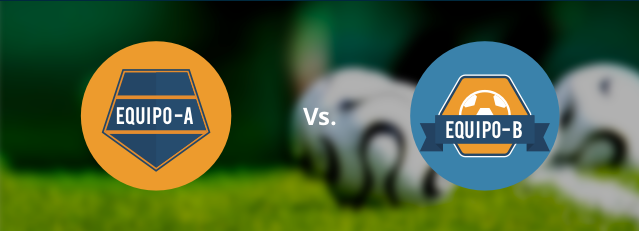
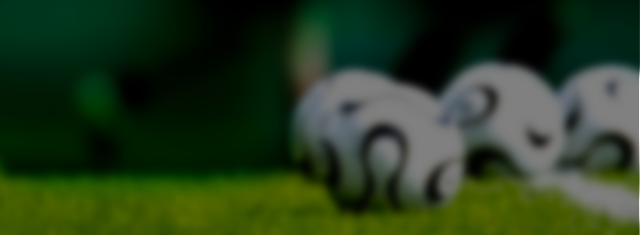
interfaz cambiada 23-01-2015

diff --git a/www/js/metodos.js b/www/js/metodos.js
@@ -1,9 +1,27 @@
-var mensajes = ["Anímate", "No lo pienses más", "Esta es la hora perfecta", "Qué estás esperando?"];
+// var mensajes = ["Anímate", "No lo pienses más", "Esta es la hora perfecta", "Qué estás esperando?"];
 
+//Esta función combierte un número en formato de dinero
+Number.prototype.formatMoney = function(places, symbol, thousand, decimal) {
+    places = !isNaN(places = Math.abs(places)) ? places : 2;
+    symbol = symbol !== undefined ? symbol : "$";
+    thousand = thousand || ",";
+    decimal = decimal || ".";
+    var number = this, 
+        negative = number < 0 ? "-" : "",
+        i = parseInt(number = Math.abs(+number || 0).toFixed(places), 10) + "",
+        j = (j = i.length) > 3 ? j % 3 : 0;
+    return symbol + negative + (j ? i.substr(0, j) + thousand : "") + i.substr(j).replace(/(\d{3})(?=\d)/g, "$1" + thousand) + (places ? decimal + Math.abs(number - i).toFixed(places).slice(2) : "");
+};
 function mostrarError(){
     // var html_error = '<h1>Error</h1><p class="centrar"><img src="images/error.png"/></p><p class="centrar">Problemas con el servidor, intenta mas tarde</p>';
     // Lungo.Notification.html(html_error, "Cerrar");
     Lungo.Notification.error("Error de conexión", "Por favor verifica que tengas acceso a internet", "remove", function(){return});
+}
+
+//Este método capitaliza un string
+function capitaliseFirstLetter(string)
+{
+    return string.charAt(0).toUpperCase() + string.slice(1);
 }
 
 // este método imprime el listado de las canchas en la primera vista
@@ -14,7 +32,8 @@ var imprimirCanchas = function (result){
         $$.each(result['data'], function(index, val) {
             $$('#canchas').append('<li class="thumb selectable arrow" data-fc-id="'+
                 val.id_cancha+'" data-fc-cupo="'+val.cupo_max+'" data-fc-tel="'+val.telefono+'" data-fc-logo="'+val.imagen_logo+'" data-fc-image="'+val.imagen_cancha+
-                '"> <img src="http://elecsis.com.co/fcracks/web/images/logos/'+val.imagen_logo+'"/><div><strong>'+val.nombre+
+                // '"> <img src="http://elecsis.com.co/fcracks/web/images/logos/'+val.imagen_logo+'"/><div><strong>'+val.nombre+
+                '"> <img src="http://fcracks.com/fcadm/web/images/logos/'+val.imagen_logo+'"/><div><strong>'+val.nombre+
                 '</strong><small>'+val.direccion+'</small></div></li>');
         });
         Lungo.Notification.hide();
@@ -27,8 +46,9 @@ var imprimirCanchas = function (result){
 var imprimirDias = function (result){
     // console.log(result);
     $$('#dias').empty();
-    $$('#dias').append('<li class="thumb big"><img src="http://elecsis.com.co/fcracks/web/images/logos/'+cancha.logo+'"/><div><h3>'+cancha.nombre+
-    '</h3></div></li>');
+    $$('article#listado-dias header > h5').html(cancha.nombre);
+    // $$('#dias').append('<li class="thumb big"><img src="http://elecsis.com.co/fcracks/web/images/logos/'+cancha.logo+'"/><div><h3>'+cancha.nombre+
+    // '</h3></div></li>');
     if(result.status === "ok"){
         $$.each(result['data'], function(index, val) {
             $$('#dias').append('<li class="selectable arrow" data-fc-fecha="'+
@@ -47,13 +67,14 @@ var imprimirDias = function (result){
 var imprimirHoras = function (result){
     // console.log(result);
     $$('#horas').empty();
-    $$('#horas').append('<li class="thumb big"><img src="http://elecsis.com.co/fcracks/web/images/logos/'+cancha.logo+'"/><div><h3>'+cancha.nombre+
-    '</h3><strong>'+label_fecha+'</strong></div></li>');
+    $$('article#listado-horas header > h5').html(cancha.nombre+' - '+capitaliseFirstLetter(label_fecha));
+    // $$('#horas').append('<li class="thumb big"><img src="http://elecsis.com.co/fcracks/web/images/logos/'+cancha.logo+'"/><div><h3>'+cancha.nombre+
+    // '</h3><strong>'+label_fecha+'</strong></div></li>');
     if(result.status === "ok"){
         $$.each(result['data'], function(index, val) {
             $$('#horas').append('<li class="selectable arrow" data-fc-hora="'+
-                val.hora+'" data-fc-blancos="'+val.blancos+'" data-fc-negros="'+val.negros+'"><div><div class="derecha"><span class="icon money no-margin"></span>$'+Math.floor(val.venta.substr(0,(val.venta.length-3))/cancha.cupo_max)+' c/u</div><strong>'+val.label+
-                '</strong><span>'+mensajes[Math.floor((Math.random() * mensajes.length))]+'</span><small>$'+val.venta.substr(0,(val.venta.length-3))+' Total por la cancha</small></div></li>');
+                val.hora+'" data-fc-blancos="'+val.blancos+'" data-fc-negros="'+val.negros+'"><div><div class="derecha">'+Math.floor(val.venta.substr(0,(val.venta.length-3))/cancha.cupo_max).formatMoney()+' c/u</div><strong>'+val.label+
+                '</strong><small>'+Math.floor(val.venta.substr(0,(val.venta.length-3))).formatMoney()+' Total</small></div></li>');
         });
         Lungo.Router.article("main", "listado-horas");
         Lungo.Notification.hide();
@@ -333,22 +354,22 @@ function imprimirPerfil(){
     $$('#article_perfil > div.empty').hide();
     var url = direccionBase+"usuario/info-perfil?access-token="+localStorage["_chrome-rel-back"];
     Lungo.Service.post(url, "id=1", function(result){
-        // console.log(result);
+        console.log(result);
         var articulo = $$('#article_perfil div#contenido');
         articulo.empty();
-        // articulo.append('<div class="layout horizontal"><div data-layout="primary"><img class="on-left" src="images/profile.png" height="90px" width="auto"/></div><div data-layout="primary"><small>Nombre: '+
-        // result.data.nombre+'</small><br><small>Correo: '+result.data.correo+'</small><br><small>Sexo: '+result.data.sexo+
-        // '</small><br><small>Teléfono: '+result.data.telefono+'</small></div></div><div class="list"><li><strong>Último partido jugado</strong><span></span><small></small></li></div>');
-        articulo.append('<p class="centrar"><img src="images/profile.png"/></p><br><strong class="separado">Nombre: '+result.data.nombre+'</strong><br><br><strong class="separado">Correo: '+
-            result.data.correo+'</strong><br><br><strong class="separado">Sexo: '+result.data.sexo+'</strong><br><br><strong class="separado">Teléfono: '+result.data.telefono+
-            '</strong><br><br><strong class="separado">Partidos jugados: '+result.total+'</strong><br><div class="list"><ul><li></li><p class="centrar" style="margin-top: 10px"><strong>Último partido:</strong></p><li id="ultimo"></li></ul></div>');
-        if(result.ultimo_partido !== false){
-            $$('#ultimo').append('<strong>Cancha: '+result.ultimo_partido.nombre+'</strong><br><strong>Dirección: '+
-            result.ultimo_partido.direccion+'</strong><br><strong>Fecha: '+result.ultimo_partido.label_fecha+'</strong><br><strong>Hora: '+result.ultimo_partido.label_hora+
-            '</strong>'
-            );
+        articulo.append('<div class="layout horizontal"><div data-layout="quarter"><p class="centrar"><img class="img-perfil" src="images/profile.png"/></p></div><div style="margin-left: 10px" data-layout="primary"><h4>'+
+        result.data.nombre+'</h4><small><span class="icon envelope"></span> '+result.data.correo+'</small><br><small><span class="icon phone"></span> '+result.data.telefono+'</small><br><small><span class="icon ok"></span> '+result.total+
+        ' partidos</small></div></div><div class="list"><ul id="history"><li><p class="centrar">Partidos pendientes</p></li></ul></div>');
+        // articulo.append('<p class="centrar"><img src="images/profile.png"/></p><br><strong class="separado">Nombre: '+result.data.nombre+'</strong><br><br><strong class="separado">Correo: '+
+        //     result.data.correo+'</strong><br><br><strong class="separado">Sexo: '+result.data.sexo+'</strong><br><br><strong class="separado">Teléfono: '+result.data.telefono+
+        //     '</strong><br><br><strong class="separado">Partidos jugados: '+result.total+'</strong><br><div class="list"><ul><li></li><p class="centrar" style="margin-top: 10px"><strong>Último partido:</strong></p><li id="ultimo"></li></ul></div>');
+        if(result.pendientes.length > 0){
+            $$.each(result.pendientes, function(index, val) {
+                $$('#history').append('<li class="selectable"><div class="layout horizontal"><div data-layout="primary"><strong>'+val.nombre+'</strong></div><div data-layout="primary"><small>'+capitaliseFirstLetter(val.label_fecha)+
+                '</small></div></div><div class="layout horizontal"><div data-layout="primary"><small>'+val.direccion+'</small></div><div data-layout="primary"><small> '+val.label_hora+'</small></div></div></li>');
+            });
         }else{
-            $$('#ultimo').append('<p class="centrar"><strong>Aún no has jugado ningún partido</strong></p>');
+            
         }
     }, "json");
     Lungo.Notification.hide();

diff --git a/www/index.html b/www/index.html
@@ -63,7 +63,7 @@
         </header>
         <footer>
             <nav>
-                <a href="#" data-view-section="main"><span class="icon trophy" style="color: #003C5A"></span></a>
+                <a href="#" data-view-section="main"><span class="icon trpphy" style="color: #003C5A"></span></a>
                 <a href="#" data-view-section="perfil"><span class="icon user" style="color: #A1A6A8"></span></a>
             </nav>
         </footer>
@@ -77,24 +77,29 @@
                 <img style="width: 100%; height: auto;" src="">
             </p>
             <h2></h2>
-            <div class="layout horizontal">
-                <div data-layout="middle"><p id="label-cupo"></p></div>
-                <!-- <div data-layout="middle"><p id="label-telefono"></p></div> -->
-            </div>
+            <p id="label-cupo"></p>
+            <!-- <p id="label-telefono"></p> -->
             <p id="label-direccion"></p>
             <p class="centrar"><button id="seleccionar-cancha" class="accept anchor" data-label="RESERVAR"></button></p><br><br>
         </article>
 
         <article id="listado-dias" class="list scroll indented">
+            <header><h5 class="centrar"></h5></header>
             <ul id="dias"></ul>
         </article>
 
         <article id="listado-horas" class="list scroll indented">
+            <header><h5 class="centrar"></h5></header>
             <ul id="horas"></ul>
         </article>
 
         <article id="listado-equipos" class="list scroll indented">
             <img src="images/vs.png" width="100%" height="auto" alt="vs">
+            <!-- <div>
+                <h5>Nombre cancha</h5>
+                <span>Dia de partido</span>
+                <small>Hora</small>
+            </div> -->
             <ul>
                 <li class="anchor"><a id="unirse-blanco" data-fc-estado="no" href="#" class="icono" data-icon="plus"></a><h2>Equipo Blanco</h2>
                     <ul id="equipo-blanco"></ul>
@@ -118,10 +123,10 @@
         <article id="article_login" class="active indented scroll">
             <img src="images/login.png" style="width: 100%; height: auto;">
             <div class="form">
-                <fieldset data-icon="inbox">
+                <fieldset>
                     <input id="correo" type="email" placeholder="Correo">
                 </fieldset>
-                <fieldset data-icon="user">
+                <fieldset>
                     <input id="contrasena" type="password" placeholder="Contraseña">
                 </fieldset>
                 <p class="centrar"><button id="iniciar-sesion" class="anchor accept margin-top margin-bottom" data-label="Ingresar"></button></p>
@@ -140,16 +145,16 @@
         </header>
         <article class="active scroll indented">
             <div class="form">
-                <fieldset data-icon="user">
+                <fieldset>
                     <input id="campo_nombres" type="text" placeholder="Nombre(s)">
                 </fieldset>
-                <fieldset data-icon="user">
+                <fieldset>
                     <input id="campo_apellidos" type="text" placeholder="Apellido(s)">
                 </fieldset>
-                <fieldset data-icon="inbox">
+                <fieldset>
                     <input id="campo_correo" type="email" placeholder="Correo electrónico">
                 </fieldset>
-                <fieldset data-icon="lock">
+                <fieldset>
                     <input id="campo_contrasena" type="password" placeholder="Contraseña">
                 </fieldset>
                 <fieldset>
@@ -161,7 +166,7 @@
                         </select>
                     </label>
                 </fieldset>
-                <fieldset data-icon="phone">
+                <fieldset>
                     <input id="campo_telefono" type="tel" placeholder="Telefono">
                 </fieldset>
                 <a href="#" id="btn_registrar" class="button anchor accept margin-top margin-bottom" data-label="Crear cuenta"></a>
@@ -175,13 +180,13 @@
         </header>
         <article class="active scroll indented">
             <div class="form">
-                <fieldset data-icon="user">
+                <fieldset>
                     <input id="inv_nombres" type="text" placeholder="Nombre(s)">
                 </fieldset>
-                <fieldset data-icon="user">
+                <fieldset>
                     <input id="inv_apellidos" type="text" placeholder="Apellido(s)">
                 </fieldset>
-                <fieldset data-icon="inbox">
+                <fieldset>
                     <input id="inv_correo" type="email" placeholder="Correo electrónico">
                 </fieldset>
                 <fieldset>
@@ -193,7 +198,7 @@
                         </select>
                     </label>
                 </fieldset>
-                <fieldset data-icon="phone">
+                <fieldset>
                     <input id="inv_telefono" type="tel" placeholder="Telefono">
                 </fieldset>
                 <a href="#" id="btn_invitar" class="button anchor accept margin-top margin-bottom" data-label="Invitar"></a>
@@ -203,7 +208,6 @@
 
     <section id="perfil" data-transition="fade">
         <header data-title="Perfil">
-            <nav><button data-icon="angle-left" data-view-section="main"></button></nav>
             <nav class="on-right"><button id="cerrar-sesion" data-icon="off"></button></nav>
         </header>
         <footer>
@@ -212,14 +216,14 @@
                 <a href="#" data-view-section="perfil"><span class="icon user" style="color: #003C5A"></span></a>
             </nav>
         </footer>
-        <article id="article_perfil" class="active scroll indented color-texto">
+        <article id="article_perfil" class="active scroll color-texto">
             <div class="empty">
                 <strong>Sesión no iniciada</strong>
                 <span class="icon user"></span>
                 <small>Debes iniciar sesión para poder acceder al perfil</small><br>
                 <a id="lanzar-login" class="button anchor accept" href="#" data-label="Iniciar Sesión"></a>
             </div>
-            <div id="contenido"></div>
+            <div id="contenido" style="margin-top: 10px"></div>
         </article>
     </section>
 

diff --git a/www/js/eventos.js b/www/js/eventos.js
@@ -10,7 +10,8 @@ Lungo.ready(function() {
             $$('header').style('margin-top', '20px');
         }
     }
-    direccionBase = "http://elecsis.com.co/fcracks/futbolcracksapi/web/v1/";
+    // direccionBase = "http://elecsis.com.co/fcracks/futbolcracksapi/web/v1/";
+    direccionBase = "http://fcracks.com/fcapi/web/v1/";
     Lungo.Service.Settings.async = true;
     Lungo.Service.Settings.error = function(type, xhr){
         if(type === "QuoJS.ajax: Timeout exceeded"){
@@ -72,13 +73,13 @@ $$('#listado-equipos').on('swipeRight', function(event) {
     Lungo.Router.article("main", "listado-horas");
 });
 $$('#login').on('unload', function(event) {
-    $$('#login div.form').find(':not(button)[id]').val('');
+    setTimeout(function(){$$('#login div.form').find(':not(button)[id]').val('');}, 350)
 });
 $$('#registrar').on('unload', function(event) {
-    $$('#registrar div.form').find(':not(button)[id]').val('');
+    setTimeout(function(){$$('#registrar div.form').find(':not(button)[id]').val('');}, 350)
 });
 $$('#invitar').on('unload', function(event) {
-    $$('#invitar div.form').find(':not(button)[id]').val('');
+    setTimeout(function(){$$('#invitar div.form').find(':not(button)[id]').val('');}, 350)
 });
 // navigator.Backbutton.goHome(function() {
 //     console.log('success')
@@ -130,7 +131,8 @@ $$('#listado-canchas ul').on('singleTap', 'li.selectable', function(event) {
         logo : $$(this).attr('data-fc-logo'),
 		imagen : $$(this).attr('data-fc-image'),
 	};
-    $$('article#cancha img').attr('src', 'http://elecsis.com.co/fcracks/web/images/canchas/'+cancha.imagen);
+    // $$('article#cancha img').attr('src', 'http://elecsis.com.co/fcracks/web/images/canchas/'+cancha.imagen);
+    $$('article#cancha img').attr('src', 'http://fcracks.com/fcadm/web/images/canchas/'+cancha.imagen);
     $$('article#cancha h2').html(cancha.nombre);
     // $$('#label-telefono').html("Tel: "+cancha.telefono);
     $$('#label-cupo').html("Cupo: "+cancha.cupo_max+" jugadores");
@@ -218,7 +220,6 @@ $$('#btn_registrar').on('singleTap', function(event) {
     }else{
         Lungo.Service.post(url, datos, verificarRegistro, "json");
     }
-    cordova.plugins.Keyboard.close();
 });
 
 $$(document).on('singleTap', '#sacarme-blanco', function(event) {
@@ -277,6 +278,5 @@ $$(document).on('singleTap', '#btn_invitar', function(event) {
         Lungo.Notification.show();
         Lungo.Service.post(url, datos, verificarInvitacion, "json");
     }
-    cordova.plugins.Keyboard.close();
 });
 

diff --git a/www/css/index.css b/www/css/index.css
@@ -20,6 +20,15 @@ li > a.icono {
 	padding-top: 4px;
 }
 
+article#cancha h2{
+	padding: 8.53333px;
+}
+
+article header{
+	color: #FFF;
+	background-color: #155474;
+}
+
 .registrar {
 	font-size: 1.1em;
 	color: #003c5a;
@@ -28,6 +37,10 @@ li > a.icono {
 
 .icon.off {
 	font-size: 1.6em;
+}
+
+span.icon.plus {
+	color: #E5E5E5;
 }
 
 .separado {
@@ -41,8 +54,34 @@ li > a.icono {
 }
 .derecha {
 	position: absolute;
-	right: 3.8em;
-	font-size: 12px;
+	right: 1.8em;
+	top: 30%;
+	font-size: 1.1em;
 	color: #808080;
 	font-weight: 400;
+}
+
+article#listado-equipos > div {
+	height: 235px;
+	width: auto;
+	background-image: url(../images/vs.png) no-repeat;
+}
+
+.list li.thumb > img {
+	padding: 5px;
+	border: solid 1px;
+	border-color: #DCDCDC;
+}
+
+.img-perfil {
+	height: 90px;
+	width: auto;
+}
+
+#contenido small{
+	font-size: 0.8em;
+}
+
+#contenido span {
+	margin-right: 5px;
 }

diff --git a/www/css/lungo.css b/www/css/lungo.css
@@ -58,6 +58,7 @@ body[data-os=firefoxos] [data-os=android],body[data-os=firefoxos] [data-os=ios],
 .list li .on-right.tag{padding-left:.4em;padding-right:.4em;-webkit-text-shadow:none;-moz-text-shadow:none;-ms-text-shadow:none;-o-text-shadow:none;text-shadow:none}
 .list .on-right .icon,.list small .icon{font-size:inherit !important;width:auto !important;height:auto !important}
 .list.indented li:not(:last-child){margin-bottom:.2em}
+.list.indented li{padding: 20px 0px;}
 
 header nav a,header nav button{position:relative;text-align:center;float:left;height:46px;min-width:46px;}
 header nav a > .icon,header nav button > .icon{font-size:2em}

diff --git a/www/css/lungo.theme.css b/www/css/lungo.theme.css
@@ -387,7 +387,7 @@ body > section > article,
 body > section > [data-control="pull"],
 body > section > article a,
 body > section > [data-control="pull"] a {
-  color: #000;
+  color: gray;
 }
 body > section > article.splash,
 body > section > [data-control="pull"].splash {
